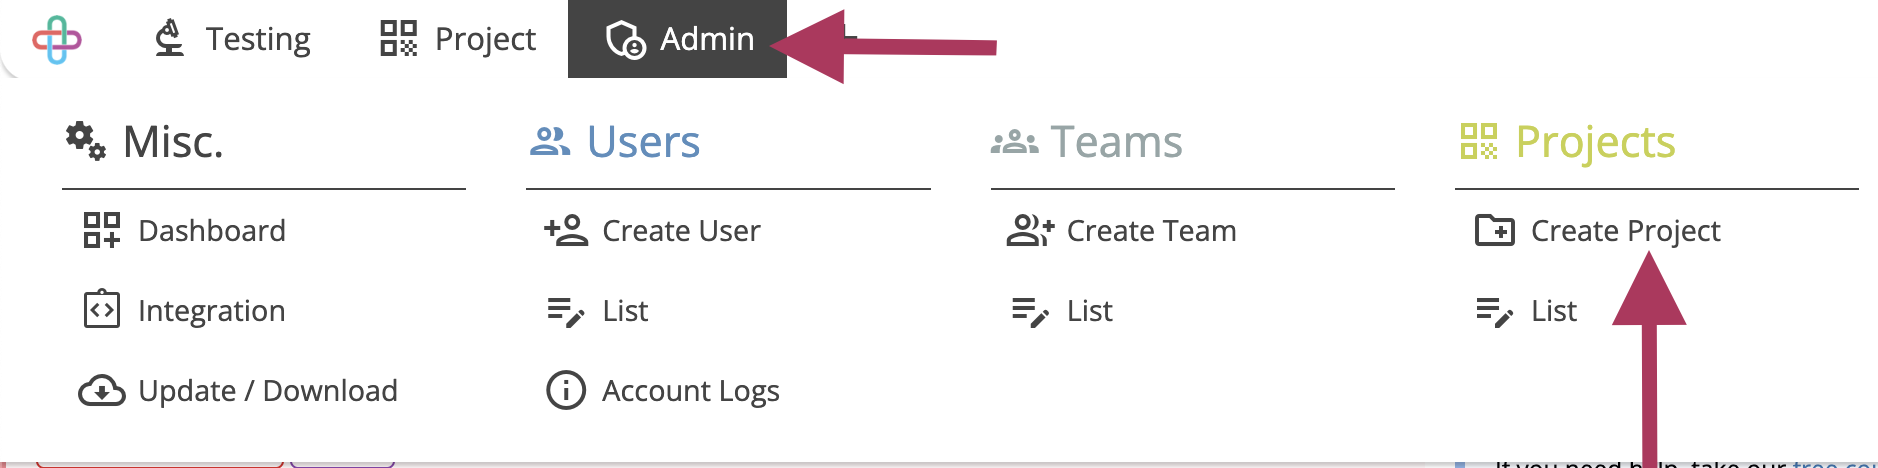
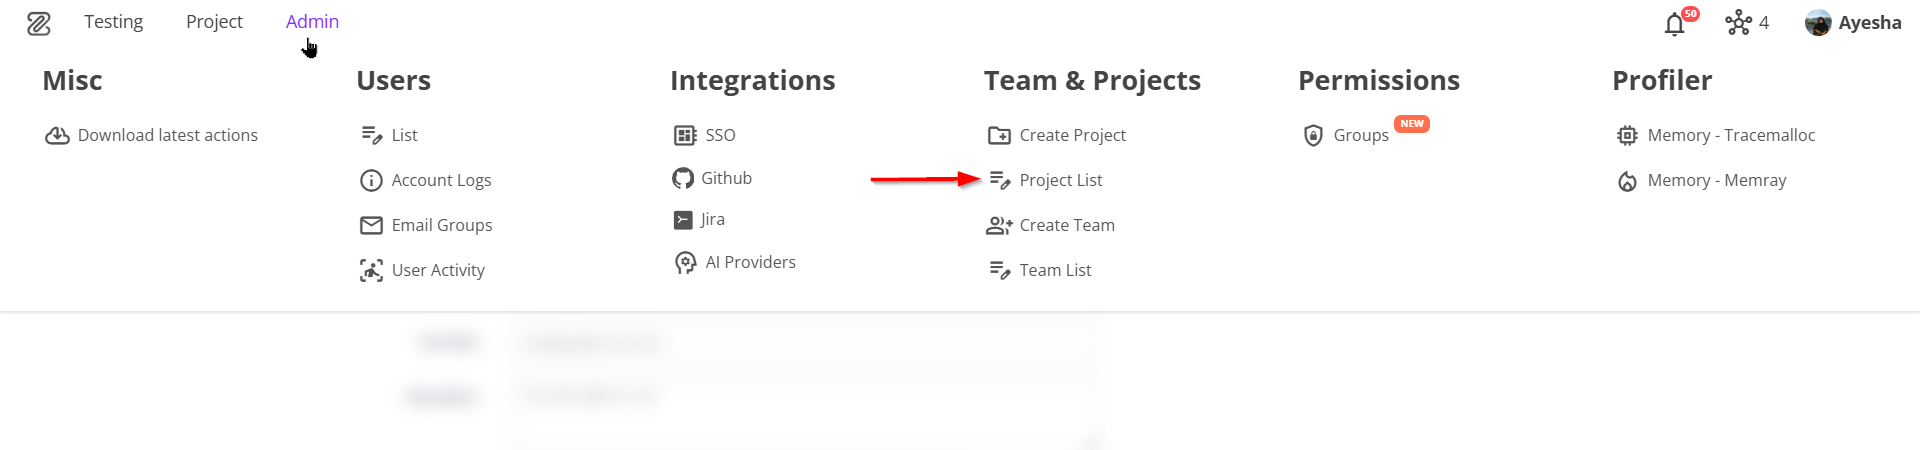
admin docs

diff --git a/docs/zeuz-server/admin/Projects/create-projects.md b/docs/zeuz-server/admin/Projects/create-projects.md
@@ -1,90 +1,121 @@
 ---
 id: create-projects
-title: Creating Projects
+title: Create Project
 ---
 
-### What is Project Management?
+import MetaCard from '@site/src/components/MetaCard';
 
-**Project management** typically involves several phases that help organize and guide the project from initiation to closure.
+In the context of test cases and project management, a **Project** is a structured workspace created to manage all testing and delivery activities for a specific application, product, or release. It defines the scope of work and acts as a central place where test cases, requirements, features, milestones, executions, defects, and reports are organized. From a project management perspective, it helps teams plan tasks, track progress, assign responsibilities, and monitor quality, ensuring that testing and development activities remain aligned with project goals and timelines.
 
-**Project management** in software testing involves the planning, coordination, and control of testing acting activities within a software development project. It includes defining testing objectives, allocating resources, managing timelines and milestones, facilitating communication and collaboration, mitigating risks, ensuring quality standards, and engaging stakeholders. Effective project management in software testing is essential for the successful completion of testing activities and the overall success of the software project.
+<MetaCard
+  availableFrom="20250518"
+  difficulty="🟢 Easy"
+  lastUpdated="03 Mar, 2026"
+  relatedTopics={["Create team", "Setting up email notification"]}
+/>
 
-While there are different approches and methodolies, a common framwork for project management phases is as follows:  
+### Why it matters / Use Cases:
+- **Project Identification**: The project name clearly identifies the application or product under testing, ensuring all test cases and results are grouped correctly.
+- **Ownership and Accountability**: Assigning a project owner defines responsibility for maintaining test cases, managing execution, and overseeing quality.
+- **Structured Test Management**: Creating a project establishes a structured space to organize test cases, features, test sets, and automation assets.
+- **Access Control and Coordination**: A defined project allows teams to collaborate efficiently under a single workspace with clear ownership.
+- **Accurate Reporting and Metrics**: All reports, dashboards, and automation metrics are generated based on the selected project, ensuring reliable insights.
+- **Scalability Across Products**: Multiple projects can be created to manage testing for different applications or releases without overlapping data.
 
-* **Initiation**:  
+## Prerequisites
+- Access to ZeuZ Server with permissions for **Admin → Team & Projects → Create Project**.
 
-1. Establishing the goal
-2. Defining the objectives
-3. Listing possible risks and obstacles
+## Features
+### Create Project
+- Navigate to the **Create New Project** page.
+- After navigating to the Create New Project page, users are required to provide the following information:  
+  - **Project Name Field**: A text input field labeled ***Project Name*** is used to enter the name of the new project.
+  - **Project Owner Selection**: A searchable dropdown labeled ***Project Owner***, allowing selection of one or more responsible users who will own and manage the project.
+  - **Submit Button**: After providing the required information, click the ***SUBMIT*** button to store the entered details and create the project.
 
-* **Planning**:  
+![](/img/how-tos/how-to-create-projects/project-page.png)
 
-1. Identifying project activities
-2. Determining necessary resources
-3. Analyzing and constructing the project network
+![](/img/how-tos/how-to-create-projects/multiple-owners.png)
 
-* **Execution**: 
+:::note
+To remove a **Project Owner**, click the **Delete (X)** button next to the selected owner.
 
-1. Carrying out the project plan
-2. Recuiting and organizing a project team
-3. Distributing needed information
+![](/img/how-tos/how-to-create-projects/delete-sign.png)
 
-* **Monitoring and controlling**:  
+:::
 
-1. Controlling the scope change
-2. Controlling the costs
-3. Controlling the quality
-4. Establishing a progress reporting system
+### Edit the Project
+- After saving all the required project information, the **Edit Project** page will appear.
+- If it is necessary to edit the project, update the required information, such as the **Project Name** or **Project Owners**, and then click the ***EDIT*** button to save the changes.
 
-* **Closing**:  
+![](/img/how-tos/how-to-create-projects/edit-project.png)
 
-1. Obtaining the client appearance
-2. Closing out the contract
-3. Issueing the final report
-
-### What is the necessity of Project Management in software testing?
-
-**Project management** is essential in software testing as it enables effective planning, coordination, and resource management. It helps in identifying and managing risks, ensuring clear communication among stakeholders, and delivering projects within set time and budget constraints.  
-
-Additionally, **Project management** plays a crucial role in maintaining quality standards, implementing best practices, and continuously improving the testing process. In summary, it ensures efficient and reliable testing outcomes, contributing to the overall success of software projects.
-
-### What is a Project in software testing and why is it necessary?
-
-In software testing, a **Project** refers to a specific undertaking or effort focused on testing a software application or system. It involves a series of planned activities, tasks, and milestones aimed at varifying the functionality, reliability, and quality of the software under test.
-
-**Projects** help define the scope of testing, allocate resources effectively, plan and track progress, manage risks, and facilitate communication and reporting. By establishing clear objectives and milestones, testing projects ensure that testing activities are carried out efficiently and effectively, leading to reliable software outcomes.
-
-### Important roles of a Project in software testing
-
-In software testing, a **Project** assumes important roles to ensure effective testing. It involves project management, test strategy and planning, coordination and communication, resource management, test execution and monitoring, risk management, stakeholder management, and test closure and reporting.
-
-The **Project** oversees the testing process, aligns it with project objectives, manage resources, tracks progress, and communicates with stakeholders. They also identify and mitigate risks, ensures effective collaboration, and generate test reports.
-
-Overall, the **Project** plays a vital role in driving successful testing outcomes and delivering high-quality software.
-
-## Steps
-
-1. From the **Menu bar**, go to the **Admin** then **Create Project** option.
+### Verify Project Visibility in the Project List
+- Navigate to the **Projects** page by clicking the `Project List` option available in the menu bar.
+- After navigating to the **Projects** page, scroll to check whether the required project has been created.
 
 ![](/img/how-tos/how-to-create-projects/project-menu.png)
 
-2. Go to the **Create New Project** page.
-3. Enter the **Project Name**.
-   > Entering the *Project Name* is necessary to specify the context and association of the test case with a particular project, aiding in organization and project-specific testing.
-4. Click to select the **Project Owners**.
-   > Selecting *Project Owners* are necessary to assign responsibility and accountability for overseeing and managing the testing efforts within a specific project.
-5. Multiple of **Project Owners** can also be selected.
-   > Multiple of *Project Owners* are selected to distribute leadership roles and responsibilities, ensuring effective project management and collaboration among team members.
+![](/img/how-tos/how-to-create-projects/test-name.png)
 
-![](/img/how-tos/how-to-create-projects/create-project.png)
+:::note
+A new project can also be created from the Projects page in a similar way by clicking the ***CREATE NEW PROJECT+*** button.
 
-6. Click on the **Submit** button.
-   > The function of the *Submit* button is to confirm and save the selected project owners and their roles, updating the project configuration for management and oversight.
+:::
 
-![](/img/how-tos/how-to-create-projects/submit-project.png)
+## FAQs / Troubleshooting
+### FAQs
 
-7. To remove any **Project Owner**, click on the **Cross sign(X)** button.
-   > Removing a *Project Owner* may be necessary if their role or responsibilities change, ensuring that the project's leadership accurately reflects the current team structure and responsibilities.
+<details>
+<summary>Can a project have multiple owners?</summary>
 
-![](/img/how-tos/how-to-create-projects/cross-sign.png)
+Yes, you can assign more than one owner to a project by selecting multiple users in the Project Owner field.
+
+</details>
+
+<details>
+<summary>How do I know if my project was successfully created?</summary>
+
+After submission, the new project should appear in the Projects list table with its Project ID, Project Name, and Project Owner.
+
+</details>
+
+<details>
+<summary>Can I edit project details after creation?</summary>
+
+Yes, click the Edit icon under the Update column to modify project information, including the name and owners.
+
+</details>
+
+<details>
+<summary>How do I manage team members for a project?</summary>
+
+Use the Manage Team icon in the project list to assign or remove team members from the project.
+
+</details>
+
+<details>
+<summary>Are there any naming restrictions for projects?</summary>
+
+There are no naming restrictions for projects. However, the project name must be unique and may include supported special characters.
+
+</details>
+
+### Troubleshooting
+- **Project does not appear after creation**: Refresh the Projects page to load the latest entries and ensure that the required fields (Project Name and Owner) are completed.
+- **Unable to select a project owner**: Check that the user exists and is active, and ensure that the user has sufficient permissions to be assigned as a project owner.
+- **Team members not updating in project**: Use the Manage Team icon to update members, and refresh the page to confirm the changes.
+- **Project shows incorrect owner after creation**: Verify the owner selection before clicking Submit, and use the Edit option to correct the owner if required.
+
+## Changelog
+
+- Always available
+
+## Related Topics
+
+- [Create team](https://docs.zeuz.ai/docs/zeuz-server/admin/Teams/create-teams/)
+- [Setting up email notification](https://docs.zeuz.ai/docs/zeuz-server/admin/Projects/setup-email-notification/)
+
+---
+
 

diff --git a/docs/zeuz-node/actions/web/go-to-link.md b/docs/zeuz-node/actions/web/go-to-link.md
@@ -132,18 +132,57 @@ This Example shows how to add different arguments for different browsers
 ## Queries:
 **1. How to manage profile?**
 
-Ans: You need to find or generate a chrome profile folder. Then add the profile as a folder
-`add_argument | chromium option | ['--user-data-dir=path/to/profile/folder']`
+Ans: To manage a Chrome profile in ZeuZ:
 
-As of now, No support for Firefox/Safari browser profile
+1. Close all running Chrome instances. Profile switching will not work if Chrome is open.
+2. Find or Create a Chrome profile folder.
+3. Add the profile using the Chromium option inside `add_argument`.
 
-Find Chrome profile path here,
-Find the Profile Path:
+Use both arguments:
 
-Chrome profiles are typically stored in:
-- Windows: `C:\Users\Username\AppData\Local\Google\Chrome\User Data\<ProfileName>`
-- macOS: `/Users/Username/Library/Application Support/Google/Chrome/`
-- Linux: `/home/Username/.config/google-chrome/`
+`
+[
+  '--user-data-dir=PATH_TO_USER_DATA',
+  '--profile-directory=ProfileName'
+]
+`
+
+|         |              |  |
+|-------------|------------------|-------|
+| add_argument | chromium option | `['--user-data-dir=PATH', '--profile-directory=ProfileName']` |
+
+#### Example (Windows)
+
+`
+[
+  '--user-data-dir=C:\Users\Username\AppData\Local\Google\Chrome\User Data',
+  '--profile-directory=Default'
+]
+`
+
+#### Where to Find Chrome Profiles
+
+**Windows**:  
+`
+C:\Users\Username\AppData\Local\Google\Chrome\User Data\
+`
+
+**macOS**:  
+`
+/Users/Username/Library/Application Support/Google/Chrome/
+`
+
+**Linux**:  
+`
+/home/Username/.config/google-chrome/
+`
+Inside the `User Data` folder, you will see directories like `Default`, `Profile 1`, `Profile 2`, etc.  
+Use the folder name as the value for `--profile-directory`.
+
+:::note
+Firefox and Safari profile management are not supported.
+
+:::
 
 **2. How to add chrome extension (crx/unpacked_folder/encoded_extension)?**
 
